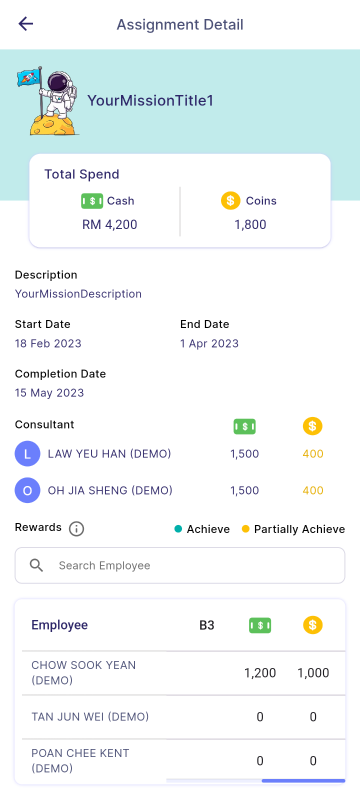
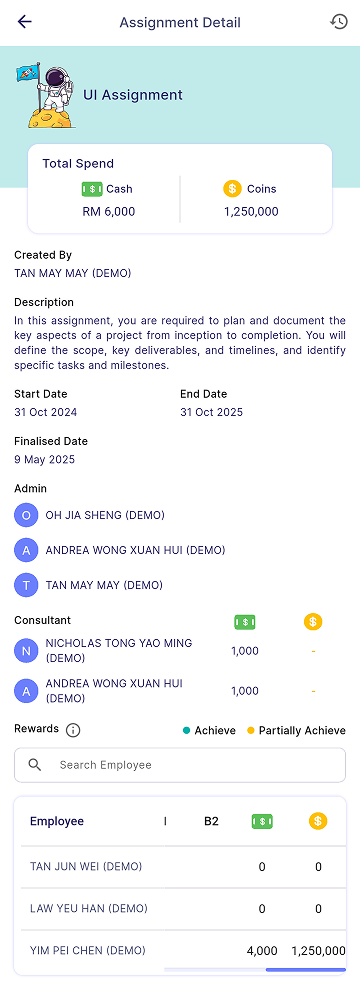
update: update mission, mission creation, and group documentation

diff --git a/docs/integration/vision/task/manager_view/task_creation/target.md b/docs/integration/vision/task/manager_view/task_creation/target.md
@@ -4,7 +4,7 @@ sidebar_position: 3
 
 # Create Target
 
-Target is a quantitative mission (countable data). E.g. Sales Target, Total new users.
+Target is a quantitative mission (countable data). E.g. Sales Target, Input Data.
 
 :::info[Note]
 
@@ -12,7 +12,7 @@ This feature is only available to **manager**.
 
 :::
 
-## Step 1 - Target Details
+## Step 1 - Target Information
 
 ![target](../../../../../../static/img/integration/vision/mi_creation/t-1.png)
 
@@ -25,7 +25,7 @@ This feature is only available to **manager**.
 | **Clear**                | Clears all content on the current page.                                            | -        |
 | **Next**                 | Navigates to the next page.                                                        | -        |
 
-## Step 2 - Target and Rewards
+## Step 2 - Rewards Information
 
 ![target](../../../../../../static/img/integration/vision/mi_creation/t-2.png)
 
@@ -48,12 +48,12 @@ This feature is only available to **manager**.
 There are two types of **Grouping Types**:
 
 1. **Individual:**
-   - Selecting Individual means that the targets and rewards apply to each normal member added or who joins this target mission.
-   - **Example:** if the target is 10,000 and the reward is 1%, all employees will have a target of 10,000 and a reward of 1%.
+   - Selecting Individual means that the targets and rewards **apply to each participants** added or who joins this target mission.
+   - **Example:** if the target is 10,000 and the reward is 1%, all participants will have a target of 10,000 and a reward of 1%.
 
 2. **Team:**
 
-   - Selecting Team means that the targets and rewards apply only to the team leader added to this target mission.
+   - Selecting Team means that the targets and rewards apply **only to the Team Leader** added to this target mission.
    - **Example:** if the target is RM 50,000 and the reward is 5%, the leader receives the reward only when the total target achieved by members exceeds RM 50,000.
 
 :::info[Note]
@@ -189,32 +189,59 @@ There are two types of payment methods:
    - **Inclusive Setting:** If inclusive with January and August, all rewards entitled from February to August will be paid in August, while rewards entitled from September to January will be paid in January.
    - **Exclusive Setting:** If exclusive with January and August, all rewards entitled from January to July will be paid in August, and rewards entitled from August to December will be paid in January.
 
-## Step 3 - Add Members
+## Step 3 - Participants Information
 
-There are 4 combination of members that can be created in Target:
+### Participant Role
+The participant role in **Team and Individual Target** are different and works differently:
 
-1. **Normal member:**  
-  An employee who performs the mission without a specific management or leadership role.
+#### Admin
+  - **Admin** is authorized to **manage and edit** the task. 
+  - Admin will not perform the task, therefore, admin **will not be entitled to any reward**.
+  - By default, creator will be added as Admin and no one can remove him/her. *(Employee with yellow crown as shown in above image is the creator.)* 
 
-2. **Admin:**  
-  An employee authorized to manage the task but does not complete the mission themselves. Admin shall not be entitled to any reward.
+#### Team Leader *(Team only)*
+  - The **Team Leader** is responsible for **leading the mission**. 
+  - A **leader is required** in a team target.
+  - The leader does not contribute to the target directly, but is **entitled to rewards based on the combined performance of the Team Members**, as defined in **[Step 2 - Rewards Information](#step-2---rewards-information)**. See **[Grouping Type](#grouping-type)** for more details.
 
-3. **Team Leader:**  
-  An employee who leads the mission. *This role is visible only when Grouping Type is set to **Team**.*
+#### Team Members *(Team only)*
+  - **Team Members** are the employees who **contribute their target hits** toward the team goal.
+  - Their **combined performance determines** whether the Team Leader qualifies for a reward.
+  - Rewards are **given and only to Team Leader** if the total hits meet the target set in **[Step 2 - Rewards Information](#step-2---rewards-information)**. See **[Grouping Type](#grouping-type)** for more details.
 
-4. **Team Leader and Admin:**  
-  An employee who both leads the mission and manages the task but does not complete the mission themselves. This employee will be entitled to team leader's reward. *This role is visible only when Grouping Type is set to **Team**.*
+#### Participant *(Individual only)*
+  - **Participant** is the employee who performs the mission. 
+  - He/her is eligible to entitled the reward.
 
-All 4 combinations can be created in **[Add Members](#step-3---add-members)** in Step 3.
+### Features
 
-![assignment](../../../../../../static/img/integration/vision/mi_creation/t-3.png)
+| Team Target | Individual Target |
+|:-----------:|:-----------------:|
+| ![Team Target](../../../../../../static/img/integration/vision/mi_creation/participant-team.png) | ![Individual Target](../../../../../../static/img/integration/vision/mi_creation/participant.png) |
+
+| Properties              | Description                                                              | 
+|:------------------------|:-------------------------------------------------------------------------|
+| **Apply Group**         | Allow you to apply group. See more in [**group**](../../../group#apply-group).     | 
+| **Clear**               | Clears all content on the current page.                                  |
+| **Make Quest**          | Converts your mission into a Quest. See more in [**quest**](quest).      |
+| **Add Person Icon**     | Add employees as the participant type.                                   |
+| **Delete Icon**         | Delete the particular employee.                                          |
+| **Back**                | Navigates to the previous page.                                          |
+| **Create**              | Creates the mission.                                                     |
+
+### Steps to add Participants
+
+![Steps to add Participants](../../../../../../static/img/integration/vision/mi_creation/participant-steps.png)
+
+1. Press on the **Add Person Icon** for the section of participant role you would like to add.
+2. Select participants.
+3. Press **Apply** to apply current selected employees as the participant role.
+4. Press **Cancel** to cancel current changes.
+
+#### Side functions
 
 | Properties              | Description                                                              | 
 |:------------------------|:-------------------------------------------------------------------------|
 | **Search**              | Allows you to search for employees by their names.                       | 
 | **[Filter](assignment#filter)**   | Allow you to filter and sort the employee list.                | 
-| **Group**               | Allow you to apply group. See more in [**group**](../../../group#apply-group).     | 
 | **Select All**          | Allow you to select all employees at once.                               |
-| **Make Quest**          | Converts your mission into a Quest. See more in [**quest**](quest).      |
-| **Back**                | Navigates to the previous page.                                          |
-| **Create**              | Creates the mission.                                                     |

diff --git a/docs/integration/vision/task/manager_view/task_creation/assignment.md b/docs/integration/vision/task/manager_view/task_creation/assignment.md
@@ -4,7 +4,7 @@ sidebar_position: 2
 
 # Create Assignment
 
-Assignment is a qualitative mission (non-countable). E.g. Idea brainstorm, Clothes design.
+Assignment is a qualitative mission (non-countable). E.g. Marketing Strategy Planning, Company Logo design.
 
 :::info[Note]
 
@@ -33,7 +33,7 @@ Select a **Project**, **Job**, and **Task** from the dropdown. If you leave any 
 
 ![assignment](../../../../../../static/img/integration/vision/mi_creation/a-1.3.png)
 
-## Step 2 - Milestone and Rewards
+## Step 2 - Rewards Information
 
 ![assignment](../../../../../../static/img/integration/vision/mi_creation/a-2.png)
 
@@ -102,43 +102,56 @@ There are two types of payment methods:
 | **Add**       | Adds a new bonus along with its respective rewards.                                 |
 | **Delete**    | Adds a new bonus along with its respective rewards.                                 |
 
+## Step 3 - Participants Information
 
-## Step 3 - Add Members
+### Participant Role
 
-There are 4 combination of members that can be created in Assignment:
+#### Admin
+  - **Admin** is authorized to **manage and edit** the task. 
+  - Admin will not perform the task, therefore, admin **will not be entitled to any reward**.
+  - By default, creator will be added as Admin and no one can remove him/her. *(Employee with yellow crown as shown in above image is the creator.)* 
 
-1. **Normal member:**  
-  An employee who performs the mission without a specific management or advisory role.
+#### Participant
+  - **Participant** is the employee who performs the mission. 
+  - He/her is eligible to entitled the reward.
 
-2. **Admin:**  
-  An employee authorized to manage the task but does not complete the mission themselves. Admin shall not be entitled to any reward.
+#### Consultant
+  - **Consultant** provide **guidance or advice** on the mission. He/her will not perform the task.
+  - He/her will be set at **[Step 2 - Rewards Information, Consultant Rewards section](#consultant-rewards)**.
 
-3. **Consultant:**  
-  An employee who provides guidance on the mission without directly managing or completing it (e.g., an advisor).
+### Features
 
-4. **Consultant and Admin:**  
-  An employee who both guides the mission and manages the task but does not complete the mission themselves. This employee will be entitled to consultant's reward.
+![Participants](../../../../../../static/img/integration/vision/mi_creation/participant.png)
 
-The *Normal Member* and *Admin* can be created in **[Add Members](#step-3---add-members)** in Step 3, on the other hand the *Consultant* and *Consultant and Admin* combination can be created in **[Consultant Reward](#consultant-rewards)** in Step 2.
+| Properties              | Description                                                              | 
+|:------------------------|:-------------------------------------------------------------------------|
+| **Apply Group**         | Allow you to apply group. See more in [**group**](../../../group#apply-group).     | 
+| **Clear**               | Clears all content on the current page.                                  |
+| **Make Quest**          | Converts your mission into a Quest. See more in [**quest**](quest).      |
+| **Add Person Icon**     | Add employees as the participant type.                                   |
+| **Delete Icon**         | Delete the particular employee.                                          |
+| **Back**                | Navigates to the previous page.                                          |
+| **Create**              | Creates the mission.                                                     |
 
-![assignment](../../../../../../static/img/integration/vision/mi_creation/a-3.png)
+### Steps to add Participants
+
+![Steps to add Participants](../../../../../../static/img/integration/vision/mi_creation/participant-steps.png)
+
+1. Press on the **Add Person Icon** for the section of participant role you would like to add.
+2. Select participants.
+3. Press **Apply** to apply current selected employees as the participant role.
+4. Press **Cancel** to cancel current changes.
+
+#### Side functions
 
 | Properties              | Description                                                              | 
 |:------------------------|:-------------------------------------------------------------------------|
 | **Search**              | Allows you to search for employees by their names.                       | 
-| **[Filter](#filter)**   | Allow you to filter and sort the employee list.                          | 
-| **Group**               | Allow you to apply group. See more in [**group**](../../../group#apply-group).     | 
+| **[Filter](assignment#filter)**   | Allow you to filter and sort the employee list.                | 
 | **Select All**          | Allow you to select all employees at once.                               |
-| **Make Quest**          | Converts your mission into a Quest. See more in [**quest**](quest).      |
-| **Back**                | Navigates to the previous page.                                          |
-| **Create**              | Creates the mission.                                                     |
 
 #### Filter
 
+Filter is provided in the Employee List during select participants. The employee list can be filtered and sort by **Branch**, **Department** and **Hr Group** and shown in the image.
+
 ![assignment](../../../../../../static/img/integration/vision/mi_creation/a-3.2.png)
-
-The employee list can be filtered and sort by:
-
-- Branch
-- Department
-- HR Group

diff --git a/docs/integration/vision/task/manager_view/task_creation/task-edit.md b/docs/integration/vision/task/manager_view/task_creation/task-edit.md
@@ -21,7 +21,7 @@ There are certain conditions for editing a mission, as stated in the table below
 | Field                     | Affected Mission Type | Task Status | Description                                        |
 |:--------------------------|:---------------------:|:-----------:|:---------------------------------------------------|
 | **Start Date**            | Both                  | Ongoing     | Start Date cannot be changed.                      |
-| **Members**               | Both                  | Ongoing     | The members added to the mission cannot be removed or have their roles changed. However, it is possible to add more members, but these additions cannot be modified later once updated. |
+| **Team Leader, Team Members, Participants** | Both  | Ongoing   | The stated roles added to the mission cannot be removed or have their roles changed. However, it is possible to add more of these roles, but these additions cannot be modified later once updated. |
 | **Milestone and Rewards** | Assignment            | Ongoing     | If any member achieves a particular milestone, that milestone cannot be changed. However, the following milestones can still be edited. |
 | **Bonus**                 | Assignment            | Ongoing     | If any member achieves 100% of the milestone, the bonus cannot be changed. However, it is possible to add a new bonus, but it will also be unchangeable once updated.  |
 | **Grouping Type, Strategy and Condition**| Target                | Ongoing     | Grouping type, strategy and condition cannot be changed after mission is ongoing. |

diff --git a/docs/integration/vision/task/manager_view/assignment.md b/docs/integration/vision/task/manager_view/assignment.md
@@ -4,7 +4,7 @@ description: A brief guide on assignment
 sidebar_position: 2
 ---
 
-Managers can view the assignment detail that are created such as title, description, start date, end date, consultant, rewards, and bonus criteria.
+Managers can view the assignment detail that are created such as title, description, start date, end date, admin, consultant, rewards, and bonus criteria.
 
 | Undue/Overdue                                                | Completed                                                | 
 |--------------------------------------------------------------|----------------------------------------------------------|
@@ -87,6 +87,14 @@ Manager can override the log file's progress percentage by clicking **Save** but
 :::
 
 ![Edit Bonus](../../../../../static/img/integration/vision/task/editBonus.png)
+
+### Transfer Ownership
+- Only the creator will see the transfer ownership button in the app bar.
+- If ownership is transferred to someone who is not an admin, that person will automatically be promoted to admin.
+- Once ownership is transferred, the button will no longer be visible to you, as you are no longer the creator.
+- In the third diagram below, ownership has been transferred to Tan Jun Wei, making him the new creator. Although he was not initially an admin, he was automatically promoted to admin upon receiving ownership.
+
+![Transfer Ownership Diagram](../../../../../static/img/integration/vision/task/mgr_transferOwnership.png)
 
 ### Change Log
 1. Press **History Icon** (highlighted in red)

diff --git a/docs/integration/vision/task/manager_view/task_creation/quest.md b/docs/integration/vision/task/manager_view/task_creation/quest.md
@@ -12,13 +12,12 @@ This feature is only available to **manager**.
 
 :::
 
-![quest](../../../../../../static/img/integration/vision/mi_creation/q.png)
+![quest](../../../../../../static/img/integration/vision/mi_creation/quest.png)
 
-| Properties                | Description                                                                   | 
-|:--------------------------|:------------------------------------------------------------------------------|
-| **Maximum Pax**         | The maximum number of people allowed to join the quest.                       | 
+| Properties                | Description                                                                 | 
+|:--------------------------|:----------------------------------------------------------------------------|
 | **Join Permission**     | Sets whether the quest requires manager approval to join.                     | 
+| **Maximum Pax**         | The maximum number of people allowed to join the quest.                       | 
 | **Quest Visible By**    | Specifies which Branch, Department, or HR Group can view and join the quest.  |
-| **Back to Normal Task** | Converts your mission into normal mission. See more in [**assignment**](assignment) and [**target**](target) |
 | **Back**                | Navigates to the previous page.                                               |
 | **Create**              | Creates the quest.                                                            |

diff --git a/docs/integration/vision/task/introduction.md b/docs/integration/vision/task/introduction.md
@@ -7,10 +7,10 @@ sidebar_position: 1
 There are 3 types of missions in task module: **Assignment**, **Target** and **Quest**.
 
 - **Assignment:**  
-  An Assignment mission focuses on qualitative outcomes that require creativity and strategic thinking. These missions emphasize the quality of work and the process rather than measurable results. E.g. Idea brainstorm, Clothes design..
+  An Assignment mission focuses on qualitative outcomes that require creativity and strategic thinking. These missions emphasize the quality of work and the process rather than measurable results. Example: Marketing Strategy Planning, Company Logo design.
 
 - **Target:**  
-  A Target mission centers on quantitative outcomes with specific, measurable goals. The focus is on achieving clear, countable results. E.g. Sales Target, Total new users.
+  A Target mission centers on quantitative outcomes with specific, measurable goals. The focus is on achieving clear, countable results. Example: Sales Target, Input Data.
 
 - **Quest:**  
   A Quest is used when you’re unsure who to assign a task to or want to invite all employees to participate. 

diff --git a/docs/integration/vision/task/manager_view/target.md b/docs/integration/vision/task/manager_view/target.md
@@ -4,7 +4,7 @@ description: A brief guide on target
 sidebar_position: 3
 ---
 
-Managers can view the target detail that are created such as title, task creator, description, start date, end date, strategy, rewards, and employee's progress.
+Managers can view the target detail that are created such as title, task creator, description, start date, end date, strategy, admin, rewards, and employee's progress.
 
 | Individual                                                  | Team                                            | 
 |-------------------------------------------------------------|-------------------------------------------------|

diff --git a/docs/integration/vision/group.md b/docs/integration/vision/group.md
@@ -26,7 +26,8 @@ Manager can view all the created groups in **Main Dashboard | Manage Group**. In
 
 1. Tap **Add** to create a new group.
 2. Enter **Group Name**.
-3. Select **Group Members** and their **Roles**.
+3. Select **Group Members**.
+4. **Roles** ***(Admin and Leader)*** can be added by long press the employee.
 4. Tap **Save** to save the group.
 
 ### Edit Group
